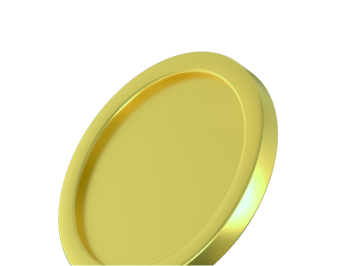
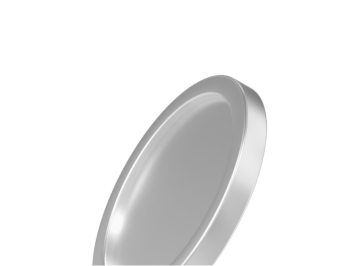
fix page

diff --git a/index.html b/index.html
@@ -75,13 +75,13 @@
 
             <div class="hidden md:flex items-center justify-center w-full md:ml-40">
                 <nav class="flex items-center text-[0.875rem] gap-[1.0625rem]">
-                    <a href="#advantages" class="hover:opacity-80">Преимущества</a>
-                    <a href="#about-us" class="hover:opacity-80">О компании</a>
+                    <a href="#advantages" class="hover:opacity-80">Плюсы</a>
+                    <a href="#about-us" class="hover:opacity-80">О нас</a>
                     <a href="/" class="mx-[2.0625rem]">
                         <img src="/assets/images/logo.svg" alt="Финстар Капитал">
                     </a>
-                    <a href="#invests" class="hover:opacity-80">Портфели</a>
-                    <a href="#contacts" class="hover:opacity-80">Связаться</a>
+                    <a href="#invests" class="hover:opacity-80">Фонды</a>
+                    <a href="#contacts" class="hover:opacity-80">Контакты</a>
                 </nav>
             </div>
 
@@ -111,10 +111,10 @@
                  class="flex-1 flex flex-col items-center justify-center gap-6 text-[1.125rem]
                 translate-y-4 opacity-0 transition-all duration-300 ease-out
                 motion-reduce:transition-none">
-                <a href="#advantages" class="hover:opacity-80">Преимущества</a>
-                <a href="#about-us" class="hover:opacity-80">О компании</a>
-                <a href="#invests" class="hover:opacity-80">Портфели</a>
-                <a href="#contacts" class="hover:opacity-80">Связаться</a>
+                <a href="#advantages" class="hover:opacity-80">Плюсы</a>
+                <a href="#about-us" class="hover:opacity-80">О нас</a>
+                <a href="#invests" class="hover:opacity-80">Фонды</a>
+                <a href="#contacts" class="hover:opacity-80">Контакты</a>
             </nav>
 
             <div id="menuCta"
@@ -137,18 +137,18 @@
             <div class="md:grid md:grid-cols-2 md:gap-2 md:items-center">
                 <div class="text-center">
                     <h1 class="font-semibold leading-none text-[2.3125rem] md:text-[3.75rem]">
-                        Доходность
+                        Обеспечьте
                         <span class="font-semibold block text-[2.3125rem] md:text-[3.75rem] text-heading">
-                до 40%
+                ликвидность
               </span>
                     </h1>
 
                     <p class="mt-4 mb-4 md:mt-[0.6rem] md:mb-9 text-[1.125rem] md:text-[1.3125rem]">
-                        профессиональное управление
+                        через Finstar Capital
                     </p>
 
                     <p class="mb-6 md:mb-10 text-[0.8125rem] leading-5 md:text-[1rem] max-w-[24rem] mx-auto">
-                        вашим инвестиционным портфелем
+                        инвестиций с гибкими возможностями
                     </p>
 
                     <div class="md:hidden -ml-4 -mr-4">
@@ -157,13 +157,13 @@
                     </div>
 
                     <a id="invest" href="#"
-                       class="mt-6 md:mt-0 items-center justify-center rounded-[100px]
+                       class="mt-6 md:mt-0 items-center justify-center rounded-[30px]
                        bg-hero-btn
                        text-white
                       text-[1.3125rem] md:text-[1.38rem]
                       py-[1.25rem] px-[2.4375rem] md:py-[1.5rem] md:px-[1.875rem]
                       hover:opacity-95 active:opacity-90 transition font-medium max-w-[20rem] mx-auto block">
-                        Узнать возможности
+                        Оценить ликвидность
                     </a>
 
                     <div class="mt-10 md:hidden rounded-[1.25rem] text-center bg-background-card px-4 py-5.5 flex flex-col justify-center items-center gap-3">
@@ -454,10 +454,10 @@
                     </ul>
 
                     <a href="#"
-                       class="inline-flex items-center justify-center rounded-[100px] font-medium text-white bg-why-us-button
+                       class="inline-flex items-center justify-center rounded-[18px] font-medium text-white bg-why-us-button
                   text-[0.9rem] md:text-[1rem]
                   py-[1rem] md:py-[1.2rem] px-[1rem] md:px-[2rem] hover:opacity-90 transition">
-                        Проверить стратегии
+                        Изучить стратегию
                     </a>
 
                     <img src="/assets/images/why_us_left_bg.png" alt="Диаграмма"
@@ -497,10 +497,10 @@
                     </ul>
 
                     <a href="#"
-                       class="inline-flex items-center justify-center rounded-[100px] text-white font-medium bg-why-us-button
+                       class="inline-flex items-center justify-center rounded-[18px] text-white font-medium bg-why-us-button
                   text-[0.9rem] md:text-[1rem]
                   py-[1rem] md:py-[1.2rem] px-[1rem] md:px-[2rem] hover:opacity-90 transition">
-                        Проверить стратегии
+                        Изучить стратегию
                     </a>
 
                     <img src="/assets/images/why_us_right_bg.png" alt="Монета"
@@ -523,16 +523,16 @@
 
                     <div class="px-5 pb-0 md:px-[4.25rem] py-[1.875rem] md:py-[2.5rem] text-white text-left md:text-center max-w-[48rem] md:-ml-[4rem]">
                         <h3 class="font-semibold leading-tight text-[1.25rem] md:text-[1.5rem]">
-                            Убедитесь в потенциале <br /> вашего портфеля
+                            Оцените преимущества <br /> досрочного выхода из фонда
                         </h3>
 
                         <p class="mt-[0.75rem] md:mt-[1.3rem] text-[0.875rem] md:text-[1rem] leading-relaxed opacity-90">
-                            Обратитесь к нашим специалистам, чтобы получить персональный анализ ваших инвестиций. Узнайте, как профессиональное управление от Финстар Капитал может помочь достичь целевой доходности. Мы обеспечиваем прозрачность и надежность с лицензией Банка России.
+                            Наши эксперты помогут вам рассчитать возможность и выгоду досрочного выхода с минимальными потерями. Судите сами: лицензия Банка России, прозрачность операций и защита ваших активов на каждом этапе сотрудничества.
                         </p>
                         <a href="#"
                            class="mt-[1.9rem] md:mt-[2.25rem] block mx-auto items-center justify-center rounded-[100px] bg-white text-black
-                    text-[1.15rem] md:text-[1rem] px-4 md:px-[1.4rem] py-[1.25rem] transition hover:opacity-90 font-medium max-w-[17rem]">
-                            Начать с Finstar
+                    text-[1.15rem] md:text-[1rem] px-4 md:px-[1.4rem] py-[1.25rem] transition hover:opacity-90 font-medium max-w-[20rem]">
+                            Активировать плавный выход
                         </a>
                     </div>
                 </div>
@@ -568,7 +568,7 @@
 
             <address class="md:col-span-3 not-italic text-left">
                 <div class="text-[1rem] md:text-[1.125rem] leading-snug order-3 md:order-none">
-                    123112, г. Москва, Пресненская наб., д. 5, стр. 1, пом. 282С</span>
+                    123112, г. Москва, Пресненская наб., д. 5, стр. 1, пом. 282С
                 </div>
             </address>
 

diff --git a/src/style.css b/src/style.css
@@ -10,36 +10,36 @@
 @theme {
     --font-display: "Montserrat", sans-serif;
 
-    --color-primary: rgba(11, 70, 164, 1);
+    --color-primary: rgba(38, 158, 114, 1);
 
-    --color-header-btn: rgba(11, 70, 164, 1);
+    --color-header-btn: rgba(132, 184, 165, 1);
 
-    --color-heading: rgba(0, 0, 0, 1);
-    --color-hero-btn: rgba(11, 70, 164, 1);
+    --color-heading: rgba(159, 108, 12, 1);
+    --color-hero-btn: rgba(38, 158, 114, 1);
 
     --color-background-card: rgba(239, 249, 255, 1);
 
-    --color-cards-advantages: rgba(240, 249, 249, 1);
-    --color-advantages-subheading: rgba(9, 110, 132, 1);
+    --color-cards-advantages: rgba(232, 237, 233, 1);
+    --color-advantages-subheading: rgba(159, 108, 12, 1);
 
-    --color-why-us-subheading: rgba(11, 70, 164, 1);
-    --color-why-us-left: rgba(246, 246, 246, 1);
-    --color-why-us-right: rgba(246, 246, 246, 1);
-    --color-why-us-button: rgba(11, 70, 164, 1);
+    --color-why-us-subheading: rgba(159, 108, 12, 1);
+    --color-why-us-left: rgba(244, 246, 232, 1);
+    --color-why-us-right: rgba(244, 246, 232, 1);
+    --color-why-us-button: rgba(38, 158, 114, 1);
 
     --color-card-two-special-text: rgba(127, 17, 0, 1);
     --color-card-three-special-text: rgba(0, 127, 88, 1);
     --color-card-four-special-text: rgba(202, 131, 8, 1);
 
-    --color-card-one: rgba(246, 246, 246, 1);
-    --color-card-two: rgba(246, 246, 246, 1);
-    --color-card-three: rgba(246, 246, 246, 1);
-    --color-card-four: rgba(222, 247, 238, 1);
+    --color-card-one: rgba(245, 241, 232, 1);
+    --color-card-two: rgba(245, 241, 232, 1);
+    --color-card-three: rgba(245, 241, 232, 1);
+    --color-card-four: rgba(247, 233, 206, 1);
 
-    --color-contact-form: rgba(16, 86, 59, 1);
-    --color-contact-form-shape: rgba(0, 120, 75, 1);
+    --color-contact-form: rgba(100, 132, 120, 1);
+    --color-contact-form-shape: rgba(77, 96, 88, 1);
 
-    --color-footer: rgba(37, 48, 44, 1);
+    --color-footer: rgba(55, 55, 55, 1);
 }
 
 @layer utilities {
@@ -55,7 +55,7 @@
     .bg-glow-hero {
         top: -90%;
         left: -25%;
-        background: radial-gradient(50% 50% at 50% 50%, rgba(179, 227, 239, 0.7) 0%, rgba(179, 227, 239, 0) 100%);
+        background: radial-gradient(50% 50% at 50% 50%, rgba(200, 239, 179, 0.7) 0%, rgba(200, 239, 179, 0) 100%);
     }
 
     .bg-glow-advantages {
@@ -63,7 +63,7 @@
         height: 500px;
         top: 9%;
         left: -17%;
-        background: radial-gradient(50% 50% at 50% 50%, rgba(157, 211, 255, 0.4) 0%, rgba(157, 211, 255, 0) 100%);
+        background: radial-gradient(50% 50% at 50% 50%, rgba(157, 175, 255, 0.4) 0%, rgba(157, 175, 255, 0) 100%);
     }
 
     .bg-glow-invests {
